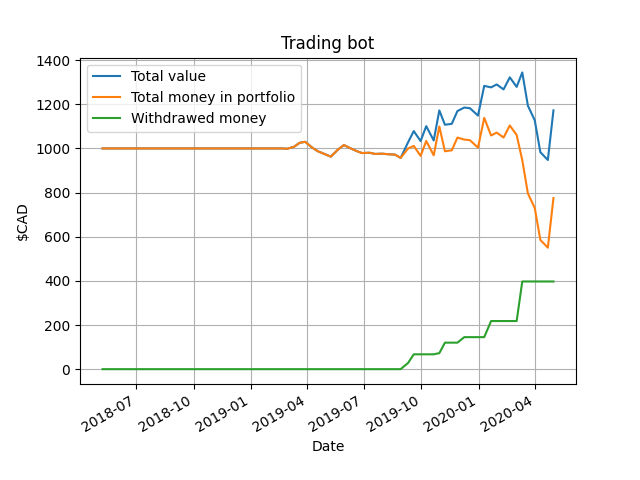
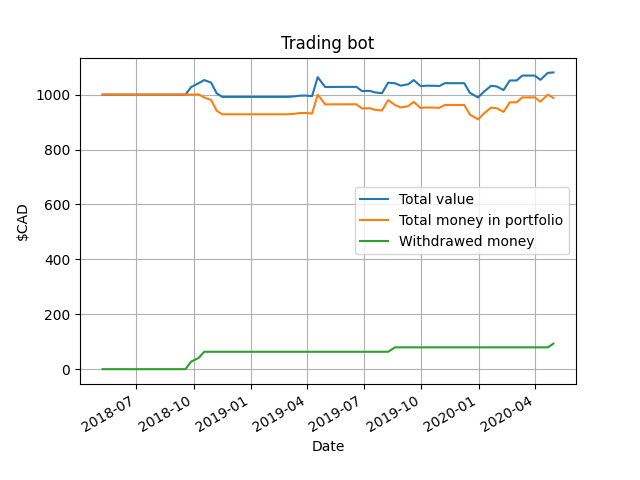
No duplicates

diff --git a/models/portfolio.py b/models/portfolio.py
@@ -54,8 +54,8 @@ class Portfolio:
             self.low = self.total_value
 
 
-    def remove_position(self, symbol, new_value, date):
-        new_positions = [position for position in self.positions if position['symbol'] != symbol]
+    def remove_position(self, id, new_value, date):
+        new_positions = [position for position in self.positions if position['id'] != id]
         self.positions = new_positions
         self.capital += new_value
         if self.best_trade < new_value:
@@ -67,46 +67,41 @@ class Portfolio:
         self.refresh_market_value(date)
 
     def print_sell(self, date, data, position, result, market_value):
-        print(f"{date} | {result} | {data['symbol']} x{position['total_nb']} | {round(market_value - position['total_value'], 5)}$")
+        print(f"{date} | {result} | {data['symbol']} x{position['nb']} | {round(market_value - (position['bought_price']), 5)}$")
 
     def check_for_sale(self, data, date, time):
         if data is not None:
-            info_positions = {'total_nb': 0, 'total_value': 0}
             for position in self.positions:
                 if position['symbol'] == data['symbol']:
-                    info_positions['total_nb'] += position['nb']
-                    info_positions['total_value'] += position['bought_price']
+                    market_value = float(data[time]) * position['nb']
+                    # Profit
+                    # limit_bottom_rsi = (data['rsi'] is not None and data['rsi'] < 30)
+                    limit_top_rsi = (data['rsi'] is not None and data['rsi'] > 70)
+                    if position['nb'] > 0 and (limit_top_rsi or market_value > position['stop_win']):
+                        self.remove_position(position['id'], market_value, date)
+                        self.print_sell(date, data, position, 'PROFIT', market_value)
+                        self.wins += 1
+                        return True
 
-            market_value = float(data[time]) * info_positions['total_nb']
-            # Profit
-            limit_bottom_rsi = (data['rsi'] is not None and data['rsi'] < 30)
-            limit_top_rsi = (data['rsi'] is not None and data['rsi'] > 70)
-            if info_positions['total_nb'] > 0 and\
-                (market_value > info_positions['total_value'] + (info_positions['total_value'] * self.profit_per) or\
-                limit_top_rsi):
-                self.remove_position(data['symbol'], market_value, date)
-                self.print_sell(date, data, info_positions, 'PROFIT', market_value)
-                self.wins += 1
-                return True
-
-            # Loss
-            if info_positions['total_nb'] > 0 and \
-                (market_value < info_positions['total_value'] - (info_positions['total_value'] * self.loss_per) or\
-                limit_top_rsi):
-                # data['5d_avg'] < data['50d_avg']):
-                self.remove_position(data['symbol'], market_value, date)
-                self.print_sell(date, data, info_positions, ' LOSS ', market_value)
-                return True
+                    # Loss
+                    if position['nb'] > 0 and \
+                        (market_value < position['stop_loss']):
+                        self.remove_position(position['id'], market_value, date)
+                        self.print_sell(date, data, position, ' LOSS ', market_value)
+                        return True
         return False
 
     def add_position(self, symbol, nb, bought_price, avg_price, date):
         if nb > 0:
             self.positions.append({
+                'id': hash(f'{symbol} / {bought_price}'),
                 'symbol': symbol,
                 'nb': nb,
                 'bought_price': bought_price,
                 'avg_price': avg_price,
                 'date': date,
+                'stop_win': bought_price + (bought_price * self.profit_per),
+                'stop_loss': bought_price - (bought_price * self.loss_per),
             })
             self.capital =  self.capital - bought_price
             self.refresh_market_value(date)
@@ -115,17 +110,19 @@ class Portfolio:
 
     def check_for_buy(self, data, date, time):
         if data is not None:
-            if (data['50d_avg'] > 0 and data['200d_avg'] > 0) and\
-                data['50d_avg'] > data['200d_avg'] and\
-                data['rsi'] < 70:
-                max_price = self.position_size * self.capital
-                nb_actions = int(round((max_price / float(data[time])), 0))
-                self.add_position(
-                    data['symbol'],
-                    nb_actions,
-                    nb_actions * float(data[time]),
-                    float(data[time]),
-                    date
-                )
-                return True
+            already_existing = [position for position in self.positions if position['symbol'] == data['symbol']]
+            if not len(already_existing):
+                if (data['10d_avg'] > 0 and data['50d_avg'] > 0) and\
+                    data['10d_avg'] > data['50d_avg'] and\
+                    data['rsi'] < 30:
+                    max_price = self.position_size * self.capital
+                    nb_actions = int(round((max_price / float(data[time])), 0))
+                    self.add_position(
+                        data['symbol'],
+                        nb_actions,
+                        nb_actions * float(data[time]),
+                        float(data[time]),
+                        date,
+                    )
+                    return True
         return False

diff --git a/app_train.py b/app_train.py
@@ -94,8 +94,8 @@ class TrainingBot:
 
 
 bot = TrainingBot(
-    profit_per=0.018,
-    loss_per=0.01,
+    profit_per=0.11,
+    loss_per=0.09,
     position_size=0.11,
     date_start='2018-05-08',
     date_end='2020-05-08'
